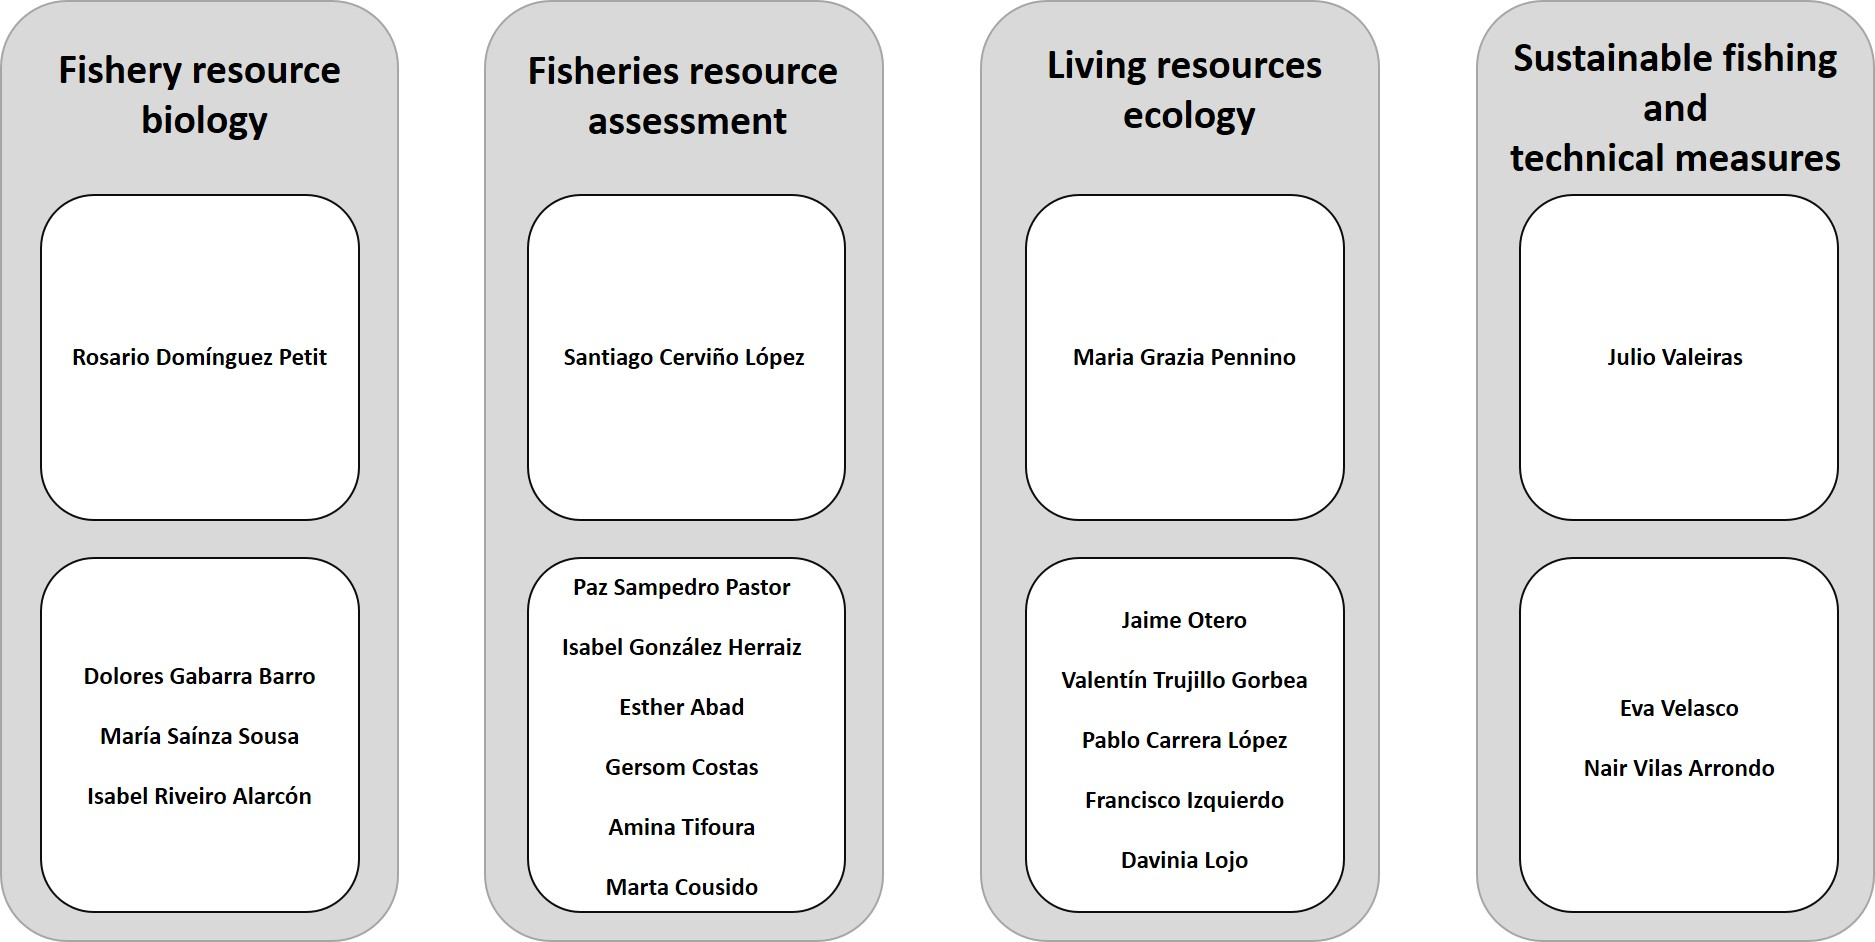
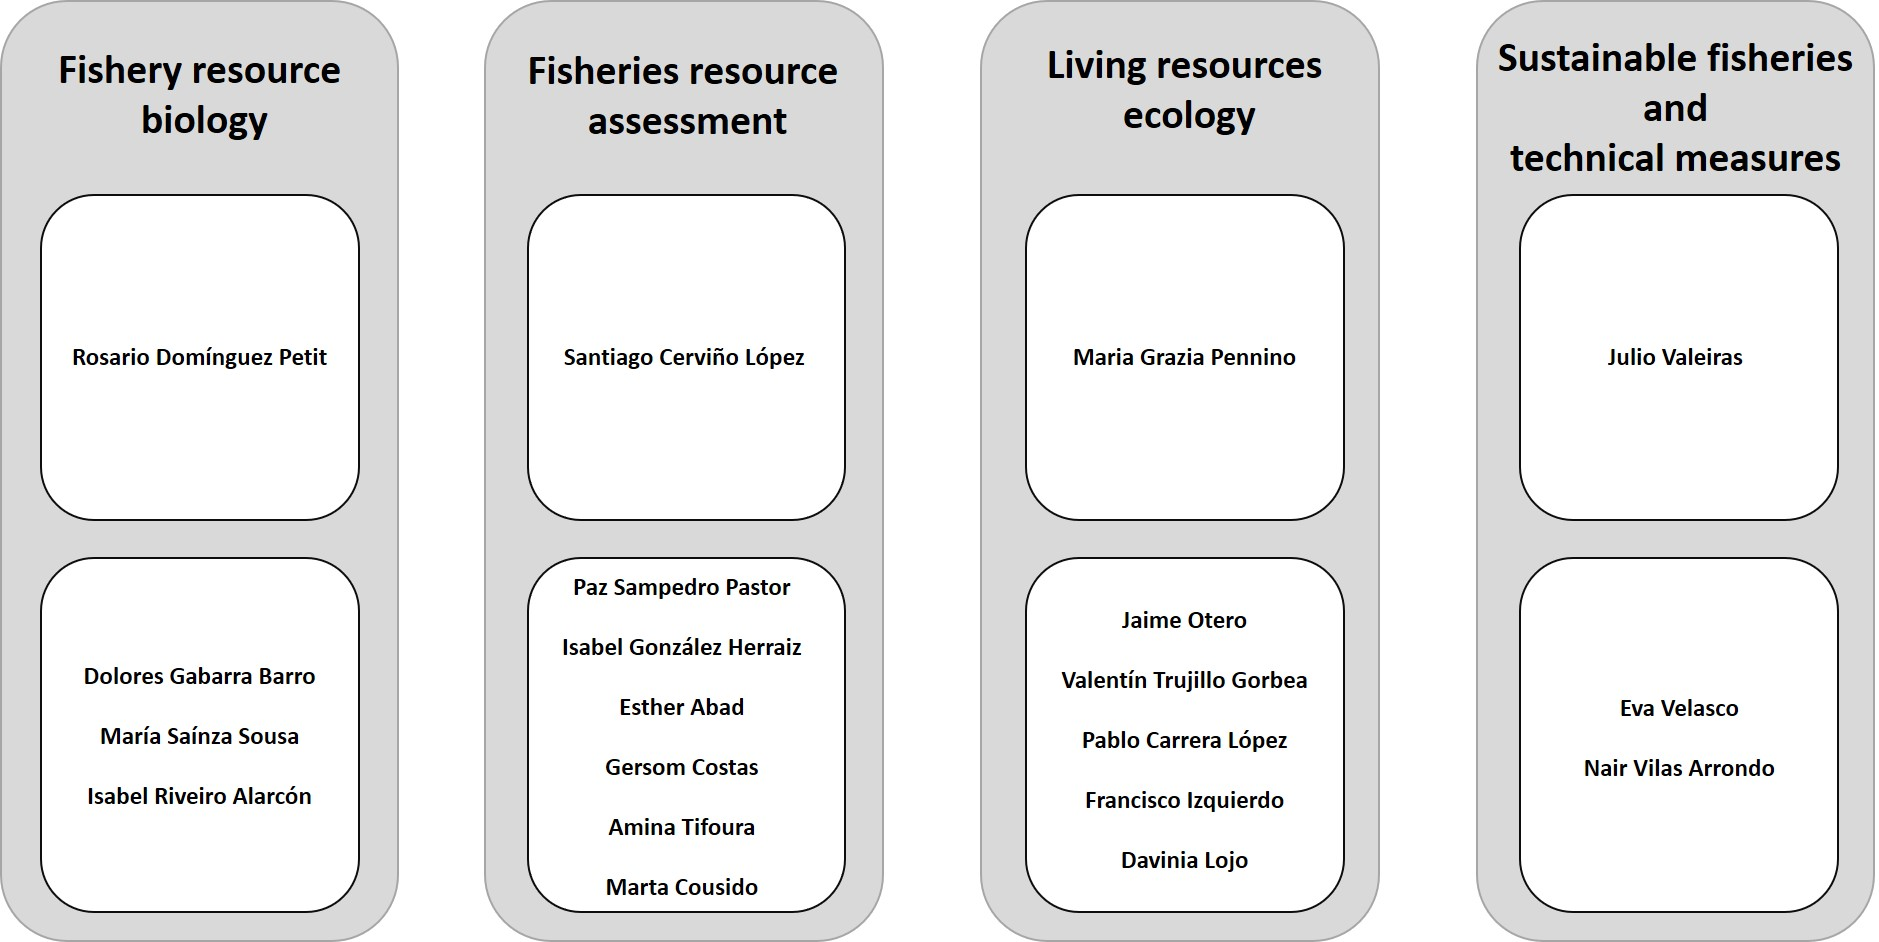
Second update of the year, May 2023, by David J. Nachón García.

diff --git a/proof/proof/grc4.html b/proof/proof/grc4.html
@@ -53,18 +53,27 @@
 
 The MERVEX group develops 4 lines of research:
 <ul>
-<li> <p align="justify"> <b>1) Assessment of fishery resources</b>.
+<li> <p align="justify"> <b>1) Fishery resource assesment</b>.
 </p>	</li>
 
-<li> <p align="justify"> <b>2) Biology of fishery resources</b>.
+<li> <p align="justify"> <b>2) Fishery resource biology</b>.
 </p>	</li>
 
-<li> <p align="justify"> <b>3) Ecology of living resources</b>.
+<li> <p align="justify"> <b>3) Living resource ecology</b>.
 </p>	</li>
 
 <li> <p align="justify"> <b> 4) Sustainable fisheries and technical measures </b>.
 </p>	</li>
 </ul>
+
+<p align="justify">
+In total, the MERVEX group is made up of 20 members of different categories and specialities, according to which they are distributed in each of the 4 lines of research. 
+The organisation chart below shows the composition of each research line, indicating the coordinator and members. 
+</p>
+
+<p align="center">
+<img src="img/Organigrama.jpg" alt="" height="400px" >
+</p>
 
 <p align="justify">
 In each line the members cover the double facet of advice and research by participating in numerous international groups depending on
@@ -74,120 +83,123 @@ guiding Master and PhD students in collaboration with national and international
 </p>
 
 <p align="justify">
-In total, the MERVEX group is made up of 20 members from different categories and specialities. They are listed and described below:
+Below is a list of the members, grouped by line of research, together with a brief professional description:
 </p>
 	
 <ul>
-<li> <p align="justify"> <b>1) Dr. Santiago Cerviño López (coordinator of the MERVEX group 
+
+<li> <p align="justify"> <b>1) Fishery resource assesment</b>.
+</p>	</li>
+
+<li> <p align="justify"> <b>Dr. Santiago Cerviño López (coordinator of the MERVEX group 
 and of the research line on fisheries resources assessment)</b>: 
 expert in fisheries biology and assessment methods, member of the Advisory Committee (ACOM) of ICES and of the WGBIE and WGSAM Working Groups. 
 He has participated in numerous European projects (FP6 and FP7) as coordinator of Case Studies (BECAUSE, UNCOVER, ECOKNOWS) and WPs (MAREFRAME), 
 he is PI of the National Plan project (IMPRESS).
 </p>	</li>
 
-<li> <p align="justify"> <b>2) Dr. Paz Sampedro Pastor</b>: 
+<li> <p align="justify"> <b>Dr. Paz Sampedro Pastor</b>: 
 expert in demersal stock assessment and commercial crustacean biology. 
 She is a member of different ICES assessment working groups and is a member of the STECF and chair of the Expert Group on Technical Measures in the Celtic Sea.
 She has participated in numerous national and international projects (16), published in scientific journals (23) and presented numerous communications at national and international conferences.
 </p>	</li>
 
-<li> <p align="justify"> <b>3) Dr. Isabel González Herraiz</b>: 
+<li> <p align="justify"> <b>Dr. Isabel González Herraiz</b>: 
 expert in Norway lobster fisheries and fisheries data analysis. 
 Participates in the ICES WGBIE, 35 projects, 21 publications, 28 conference papers.
 </p>	</li>
 
-<li> <p align="justify"> <b>4) Esther Abad Casas</b>: 
+<li> <p align="justify"> <b>Esther Abad Casas</b>: 
 expert in fisheries research and stock assessment of megrims. Participates in the WGBIE group of ICES, 
 in 35 projects, 20 publications in scientific journals, 56 communications at conferences.
 </p>	</li>
 
 
-<li> <p align="justify"> <b>5) Gersom Costas</b>: 
+<li> <p align="justify"> <b>Gersom Costas</b>: 
 Expert in fisheries research and pelagic stock assessment. He participates in different ICES groups and is chair of WGMEGS, 
 collaborates in several national and international projects, 8 publications in scientific journals.
 </p>	</li>
 
-<li> <p align="justify"> <b>6) Dr. Marta Cousido</b>: 
-Expert in mathematical and statistical modelling. She has published 7 publications in scientific journals, 
-has developed 3 different software packages in R and has participated in numerous scientific conferences.
-</p>	</li>
-
-<li> <p align="justify"> <b>7) Amina Tifoura</b>: 
+<li> <p align="justify"> <b>Amina Tifoura</b>: 
 is a PhD student of the group and is developing his thesis on the effect of the natural mortality parameter M 
 in the assessment of different stocks of commercial interest for Spain.
 </p>	</li>
 
-<li> <p align="justify"> <b>8) Dr. María Rosario Domínguez Petit (coordinator of the fisehry resources biology research line)</b>: 
+<li> <p align="justify"> <b>Dr. Marta Cousido Rocha</b>: 
+Expert in mathematical and statistical modelling. She has published 7 publications in scientific journals, 
+has developed 3 different software packages in R and has participated in numerous scientific conferences.
+</p>	</li>
+
+<li> <p align="justify"> <b>2) Fishery resource biology</b>.
+</p>	</li>
+
+<li> <p align="justify"> <b>Dr. María Rosario Domínguez Petit (coordinator of the fisehry resources biology research line)</b>: 
 expert in reproductive ecology and life history analysis of exploited marine species. 
 She participates in different ICES working groups and is a member of WGWIDE and WGACEGG. 
 She has been coordinator and PI of research projects of the Xunta de Galicia (DETEPRE and ECOPREGA), of technological support contracts with the fishing sector (PARELEP and PARELEP-2). 
 She is president of the Ibero-American network for the sustainable use of fishery resources (INVIPESCA Network).
 </p>	</li>
 
-
-<li> <p align="justify"> <b>9) María del Carmen Sainza Sousa</b>: 
-Expert in the biology (growth, maturity, length-weight ratio, sex ratio, etc.) of demersal stocks (hake, conger eel, red mullet, etc.).
-</p>	</li>
-
-<li> <p align="justify"> <b>10) Dr. María Dolores Garabana Barro</b>: 
+<li> <p align="justify"> <b>Dr. María Dolores Garabana Barro</b>: 
 Expert in reproductive ecology of exploited marine species; member and collaborator of the ICES groups WGMEGS and WGBIOP.
 </p>	</li>
 
-<li> <p align="justify"> <b>11) Dr. María Isabel Riveiro Alarcón</b>: 
+<li> <p align="justify"> <b>María del Carmen Sainza Sousa</b>: 
+Expert in the biology (growth, maturity, length-weight ratio, sex ratio, etc.) of demersal stocks (hake, conger eel, red mullet, etc.).
+</p>	</li>
+
+<li> <p align="justify"> <b>Dr. María Isabel Riveiro Alarcón</b>: 
 Expert in ichthyoplankton ecology and sardine assessment. Participation in 31 research projects, 29 publications. Ichthyoplankton campaign leader.
 </p>	</li>
 
-<li> <p align="justify"> <b>12) Dr. María Grazia Pennino (coordinator of living resources ecology research line)</b>: 
+<li> <p align="justify"> <b>3) Living resource ecology</b>.
+</p>	</li>
+
+<li> <p align="justify"> <b>Dr. María Grazia Pennino (coordinator of living resources ecology research line)</b>: 
 Expert in spatial statistics, participates in the WGBIE and WKLIFE of ICES, collaborates in different national and international projects, PI of a national plan (IMPRESS), 
 110 publications in scientific journals, part of the editorial board of Hydrobiology and Frontiers in Marine Science.
 </p>	</li>
 
-<li> <p align="justify"> <b>13) Dr. Jaime Otero</b>: 
+<li> <p align="justify"> <b>Dr. Jaime Otero Villar</b>: 
 Expert in ecology and statistical modelling, participates in different national and international projects, leads a national plan (Qlock), 
 44 publications in scientific journals.
 </p>	</li>
 
-<li> <p align="justify"> <b>14) Francisco Izquierdo</b>: 
-PhD student of the group, he is developing his doctoral thesis on the introduction of spatial effects in stock assessment models.
+<li> <p align="justify"> <b>Valentín Trujillo Gorbea</b>: 
+Expert in demersal species assessment with responsibilities in ICES assessment groups. Member of the ICES Advisory Committee.
 </p>	</li>
 
-<li> <p align="justify"> <b>15) Davinia Lojo</b>: 
-PhD student of the group in collaboration with CETMAR, 
-is developing his thesis on how to introduce socio-economic factors in the assessment of stocks in Atlantic waters.
-</p>	</li>
-
-<li> <p align="justify"> <b>16) Dr. Pablo Carrera López</b>: 
+<li> <p align="justify"> <b>Dr. Pablo Carrera López</b>: 
 Director of the Oceanographic Centre of Vigo, expert in sardine fisheries, 
 fisheries assessment and the study of pelagic population dynamics using hydroacoustic techniques. 
 He leads different oceanographic campaigns and participates in different ICES groups.
 </p>	</li>
 
-<li> <p align="justify"> <b>17) Valentín Trujillo Gorbea</b>: 
-Expert in demersal species assessment with responsibilities in ICES assessment groups. Member of the ICES Advisory Committee.
+<li> <p align="justify"> <b>Francisco Izquierdo Tarín</b>: 
+PhD student of the group, he is developing his doctoral thesis on the introduction of spatial effects in stock assessment models.
 </p>	</li>
 
-<li> <p align="justify"> <b>18) Valentín Trujillo Gorbea</b>: 
-Expert in demersal species assessment with responsibilities in ICES assessment groups. Member of the ICES Advisory Committee.
+<li> <p align="justify"> <b>Davinia Lojo</b>: 
+PhD student of the group in collaboration with CETMAR, 
+is developing his thesis on how to introduce socio-economic factors in the assessment of stocks in Atlantic waters.
 </p>	</li>
 
+<li> <p align="justify"> <b> 4) Sustainable fisheries and technical measures </b>.
+</p>	</li>
 
-<li> <p align="justify"> <b>19) Julio Valeiras Mota(coordinates the research line on sustainable fisheries and technical measures)</b>: 
+<li> <p align="justify"> <b>Julio Valeiras Mota(coordinates the research line on sustainable fisheries and technical measures)</b>: 
 An expert in biology and technical measures, 
 he participates in and leads national and international projects on marine resources in the Atlantic, Indian, Pacific and Mediterranean Seas. 
 DESCARSEL campaign manager.
 </p>	</li>
 
-<li> <p align="justify"> <b>20) Dr. Eva Velasco</b>: 
-expert in ecology and fisheries biology, participates and leads different national and international projects, as well as dissemination actions.
+<li> <p align="justify"> <b>Dr. Eva Velasco</b>: 
+Expert in ecology and fisheries biology, participates and leads different national and international projects, as well as dissemination actions.
 </p>	</li>
 
-<p align="justify">
-In the organisation chart below you can see how the different members listed above are structured and related to each other.
-</p>
-
-<p align="center">
-<img src="img/Organigrama.jpg" alt="" height="400px" >
-</p>
+<li> <p align="justify"> <b>Nair Vilas Arrondo</b>: 
+Technical Support Staff in the research group "Ecology and Marine Resources" of the Marine Research Institute, expert in genetic techniques.
+</p>	</li>
 
 </ul>
 </p>	

diff --git a/index.html b/index.html
@@ -124,10 +124,10 @@
             <div class="box">
               <h4 class="title"><a href="#News">News</a></h4>
 			  <br>
-              <p align="justify"> <a href="#News">Talk by Anxo Paz at the Iberian Research in Statistical Ecology (IRSE) (30/03/2023)  </a>
+              <p align="justify"> <a href="#News">Working Group for the Bay of Biscay and the Iberian Waters Ecoregion "WGBIE" (3-11/05/2023) </a>
 			   <br>
 			    <br>
-			  <img src="img/new130.jpg" alt="" style="max-width:100%;width:auto;height:auto;">
+			  <img src="img/new133.jpg" alt="" style="max-width:100%;width:auto;height:auto;">
 			  </p>
             </div>
           </div>
@@ -647,7 +647,7 @@ further information of group organization and team composition can be found <a h
               <div class="member-info">
                 <div class="member-info-content">
                <h4>J. Otero Villar </h4>
-                  <span>jaime.otero@ieo.csic.es</span>
+                  <span>jotero@iim.csic.es</span>
                   <div class="social">
 				    <a href="https://twitter.com/joteromarecol?lang=es"><i class="fa fa-twitter"></i></a>
                     <a href=" https://scholar.google.es/citations?user=O4y--mUAAAAJ&hl=es"><img src="img/scolar.png" alt="" width="20"></a>
@@ -914,7 +914,7 @@ further information of group organization and team composition can be found <a h
               <div class="member-info">
                 <div class="member-info-content">
                   <h4>Nair Vilas Arrondo</h4>
-                  <span>nair.vilas@csic.es</span>
+                  <span>nvilas@iim.csic.es</span>
                   <div class="social">
 					<a href="https://www.researchgate.net/profile/Nair-Arrondo"><img src="img/rg.png" alt="" height="20" width="20"></a>
                   </div>
@@ -1057,6 +1057,43 @@ further information of group organization and team composition can be found <a h
 		
         <ul id="News-list" class="wow fadeInUp">
 
+
+						 		<li>
+            <a data-toggle="collapse" class="collapsed" href="#News133"> Working Group for the Bay of Biscay and the Iberian Waters Ecoregion "WGBIE" (3-11/05/2023) <i class="ion-android-remove"></i></a>
+            <div id="News133" class="collapse" data-parent="#News-list"> <p align="justify"> 
+             Multiple members of the group will be in Copenhagen from 3-11 May for the WGBIE. At this meeting a total of 28 scientists from 5 countries:
+			 Portugal, Spain, France, Ireland and UK will discuss the assessment of 24 demersal fish and crustacean stocks. 		 
+            <a href="https://www.ices.dk/community/groups/Pages/WGBIE.aspx"> Go to the ICES page, for more information.</a></p> 			 
+<div align="center"> <img src="img/new133.jpg" alt="" style="max-width:100%;width:auto;height:auto;">          </div>
+            </div>
+         </li>
+
+
+						 		<li>
+            <a data-toggle="collapse" class="collapsed" href="#News132"> New article "First Maximum Sustainable Yield advice for the Nephrops norvegicus stocks of the Northwest Iberian
+			coast using stochastic Surplus Production model in Continuous Time (SPiCT)" (26/04/2023) <i class="ion-android-remove"></i></a>
+            <div id="News132" class="collapse" data-parent="#News-list"> <p align="justify"> 
+             New article from the IMPRESS and Math4fish projects, 
+			 fantastically led by our colleague Isabel Herraiz, 
+			 on maximum sustainable yield for Norway lobster stocks on the northwest Iberian coast!
+             This study, besides being relevant to the sustainable exploitation of Norway lobster stocks, also provides valuable insight into 
+             the adequacy and limitations of production models for the assessment of crustacean stocks in general. 			 
+            <a href="https://www.frontiersin.org/articles/10.3389/fmars.2023.1062078/full"> Go to the article page, for more information.</a></p> 			 
+<div align="center"> <img src="img/new132.jpg" alt="" style="max-width:100%;width:auto;height:auto;">          </div>
+            </div>
+         </li>
+
+
+						 		<li>
+            <a data-toggle="collapse" class="collapsed" href="#News131"> 5th Symposium on effects of climatechange on the World's ocean (ECCWO5) (17-21/04/2023) <i class="ion-android-remove"></i></a>
+            <div id="News131" class="collapse" data-parent="#News-list"> <p align="justify"> 
+             The congress will take place from 17-21 April in Bergen, Norway. Our colleague Anxo Paz participates with a panel communication, 
+			 which deals with the R Knobi package, to implement known biomass production models considering environmental effects.			 
+            <a href="https://github.com/MERVEX-group/knobi"> You can check it out in the MERVEX group's github repository.</a></p> 			 
+<div align="center"> <img src="img/new131.png" alt="" style="max-width:100%;width:auto;height:auto;">          </div>
+            </div>
+         </li>
+
 						 		<li>
             <a data-toggle="collapse" class="collapsed" href="#News130"> Talk by Anxo Paz at the Iberian Research in Statistical Ecology (IRSE) (30/03/2023)   <i class="ion-android-remove"></i></a>
             <div id="News130" class="collapse" data-parent="#News-list"> <p align="justify"> 
@@ -1187,40 +1224,6 @@ further information of group organization and team composition can be found <a h
             </div>
          </li>
 
-
-						 		<li>
-            <a data-toggle="collapse" class="collapsed" href="#News119"> Special ICES journal issue (21/02/2023)   <i class="ion-android-remove"></i></a>
-            <div id="News119" class="collapse" data-parent="#News-list"> <p align="justify"> 
-			 Two of the members of MERVEX, Santiago Cerviño and Maria Grazia are organizers 
-			 of this special issue of ICES journal 
-			 and encourage you to send your work, you are still in time! 
-            <a href="https://static.primary.prod.gcms.the-infra.com/static/site/icesjms/document/Call+for+papers_Advances+and+challenges+in+the+modelling+and+assessment+of+fishery+resources_Final.pdf?node=f75b6e8c3b7ccfa76961&version=1467759:ebc50897f828fb7803ed"> More information.</a></p> 			 
-<div align="center"> <img src="img/new119.jpg" alt="" style="max-width:100%;width:auto;height:auto;">          </div>
-            </div>
-         </li>
-
-
-						 		<li>
-            <a data-toggle="collapse" class="collapsed" href="#News118"> Meeting with the fishing sector for the southern hake stock in Vigo (21/02/2023)   <i class="ion-android-remove"></i></a>
-            <div id="News118" class="collapse" data-parent="#News-list"> <p align="justify"> 
-			 Yesterday, part of the Math4Fish team held a meeting with the fishing sector for the southern hake stock in Vigo. 
-			 For us, constructive dialogue is the basis for effective collaboration. 
-            <a href="https://math4fish.ieo.csic.es/"> Go to the Math4Fish web for more information.</a></p> 			 
-<div align="center"> <img src="img/new118.png" alt="" style="max-width:100%;width:auto;height:auto;">          </div>
-            </div>
-         </li>
-
-
-						 		<li>
-            <a data-toggle="collapse" class="collapsed" href="#News117"> Talk by Marta Cousido in Iberian Research in Statistical Ecology (IRSE) (16/02/2023)   <i class="ion-android-remove"></i></a>
-            <div id="News117" class="collapse" data-parent="#News-list"> <p align="justify"> 
-			 Yesterday, our colleague Marta Cousido,
-			 gave a talk on surplus production models at the Iberian Research in Statistical Ecology (IRSE).
-            <a href="https://groups.google.com/g/iberian-research-in-statistical-ecology-irse/c/pZlaYMUODeE"> Go to the IRSE web for more information.</a></p> 			 
-<div align="center"> <img src="img/new117.jpg" alt="" style="max-width:100%;width:auto;height:auto;">          </div>
-            </div>
-         </li>
-
 		 
 		 <li>
 		  
@@ -1309,10 +1312,9 @@ further information of group organization and team composition can be found <a h
 
     <div class="container">
 	        <div style="text-align: center;">
-		<a href="http://www.ciencia.gob.es/portal/site/MICINN/"><img src="img/clients/client-1.png" alt="" height="55px"></a> 
         <a href="http://www.ciencia.gob.es/portal/site/MICINN/aei"><img src="img/clients/client-2.jpg" alt="" height="55px"></a>
 		<a href="https://ec.europa.eu/regional_policy/es/funding/erdf/"><img src="img/clients/client-3.jpg" alt="" height="55px"></a>
-		<a href="https://www.csic.es/es"><img src="img/clients/client-4.png" alt="" height="105px"></a> 
+		<a href="https://www.csic.es/es"><img src="img/clients/client-6.png" alt="" height="55px"></a> 
 		<a href="http://www.ieo.es/es/"><img src="img/clients/client-5.png" alt="" height="55px"></a> 
 		<a href="https://www.xunta.gal/portada"><img src="img/clients/xunta.jpg" alt="" height="45px"></a> 
 		<a href="http://gain.xunta.gal/?locale=es_ES"><img src="img/clients/gain.jpg" alt="" height="45px"></a> 

diff --git a/proof/previous news.html b/proof/previous news.html
@@ -64,6 +64,37 @@
 		
 
 						 		<li>
+            <a data-toggle="collapse" class="collapsed" href="#News119"> Special ICES journal issue (21/02/2023)   <i class="ion-android-remove"></i></a>
+            <div id="News119" class="collapse" data-parent="#News-list"> <p align="justify"> 
+			 Two of the members of MERVEX, Santiago Cerviño and Maria Grazia are organizers 
+			 of this special issue of ICES journal 
+			 and encourage you to send your work, you are still in time! 
+            <a href="https://static.primary.prod.gcms.the-infra.com/static/site/icesjms/document/Call+for+papers_Advances+and+challenges+in+the+modelling+and+assessment+of+fishery+resources_Final.pdf?node=f75b6e8c3b7ccfa76961&version=1467759:ebc50897f828fb7803ed"> More information.</a></p> 			 
+<div align="center"> <img src="img/new119.jpg" alt="" style="max-width:100%;width:auto;height:auto;">          </div>
+            </div>
+         </li>
+
+						 		<li>
+            <a data-toggle="collapse" class="collapsed" href="#News118"> Meeting with the fishing sector for the southern hake stock in Vigo (21/02/2023)   <i class="ion-android-remove"></i></a>
+            <div id="News118" class="collapse" data-parent="#News-list"> <p align="justify"> 
+			 Yesterday, part of the Math4Fish team held a meeting with the fishing sector for the southern hake stock in Vigo. 
+			 For us, constructive dialogue is the basis for effective collaboration. 
+            <a href="https://math4fish.ieo.csic.es/"> Go to the Math4Fish web for more information.</a></p> 			 
+<div align="center"> <img src="img/new118.png" alt="" style="max-width:100%;width:auto;height:auto;">          </div>
+            </div>
+         </li>
+
+						 		<li>
+            <a data-toggle="collapse" class="collapsed" href="#News117"> Talk by Marta Cousido in Iberian Research in Statistical Ecology (IRSE) (16/02/2023)   <i class="ion-android-remove"></i></a>
+            <div id="News117" class="collapse" data-parent="#News-list"> <p align="justify"> 
+			 Yesterday, our colleague Marta Cousido,
+			 gave a talk on surplus production models at the Iberian Research in Statistical Ecology (IRSE).
+            <a href="https://groups.google.com/g/iberian-research-in-statistical-ecology-irse/c/pZlaYMUODeE"> Go to the IRSE web for more information.</a></p> 			 
+<div align="center"> <img src="img/new117.jpg" alt="" style="max-width:100%;width:auto;height:auto;">          </div>
+            </div>
+         </li>
+
+						 		<li>
             <a data-toggle="collapse" class="collapsed" href="#News116"> Interview with our colleague Marta Cousido for RTVE (15/02/2023)   <i class="ion-android-remove"></i></a>
             <div id="News116" class="collapse" data-parent="#News-list"> <p align="justify"> 
 			 Our colleague Marta Cousido led a study that reveals how COVID19 affected fishing activity in Andalusia.
